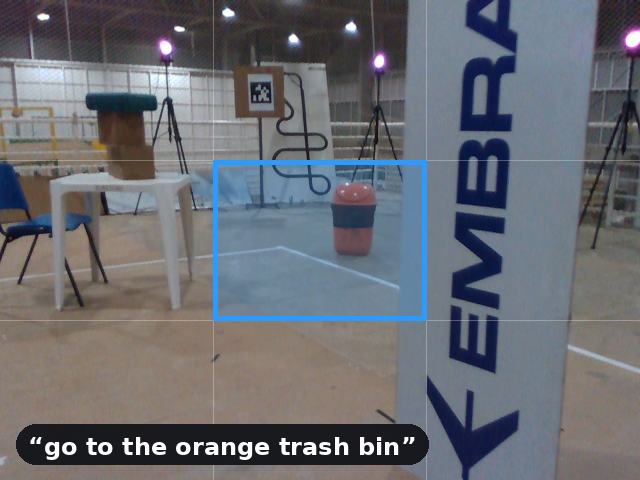
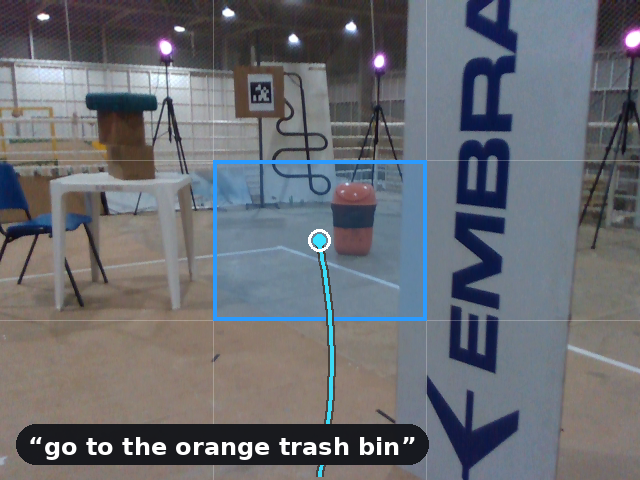
Shrink compare slider and add approach path to each object

Changed region(s): [[0.4688, 0.4688, 0.5312, 0.9062], [0.4688, 0.9688, 0.5312, 1.0]]

diff --git a/style.css b/style.css
@@ -80,7 +80,7 @@ pre{background:var(--surface); border:1px solid var(--border); border-radius:12p
   border:1px solid var(--border); background:var(--surface); color:var(--ink)}
 
 /* before/after compare slider */
-.compare{position:relative; max-width:660px; margin:0 auto; aspect-ratio:4/3; border-radius:12px;
+.compare{position:relative; max-width:440px; margin:0 auto; aspect-ratio:4/3; border-radius:12px;
   overflow:hidden; border:1px solid var(--border); user-select:none; touch-action:none; cursor:ew-resize; outline:none}
 .compare:focus-visible{box-shadow:0 0 0 3px var(--accent-soft)}
 .compare img{position:absolute; inset:0; width:100%; height:100%; object-fit:cover; display:block; border-radius:0; pointer-events:none}